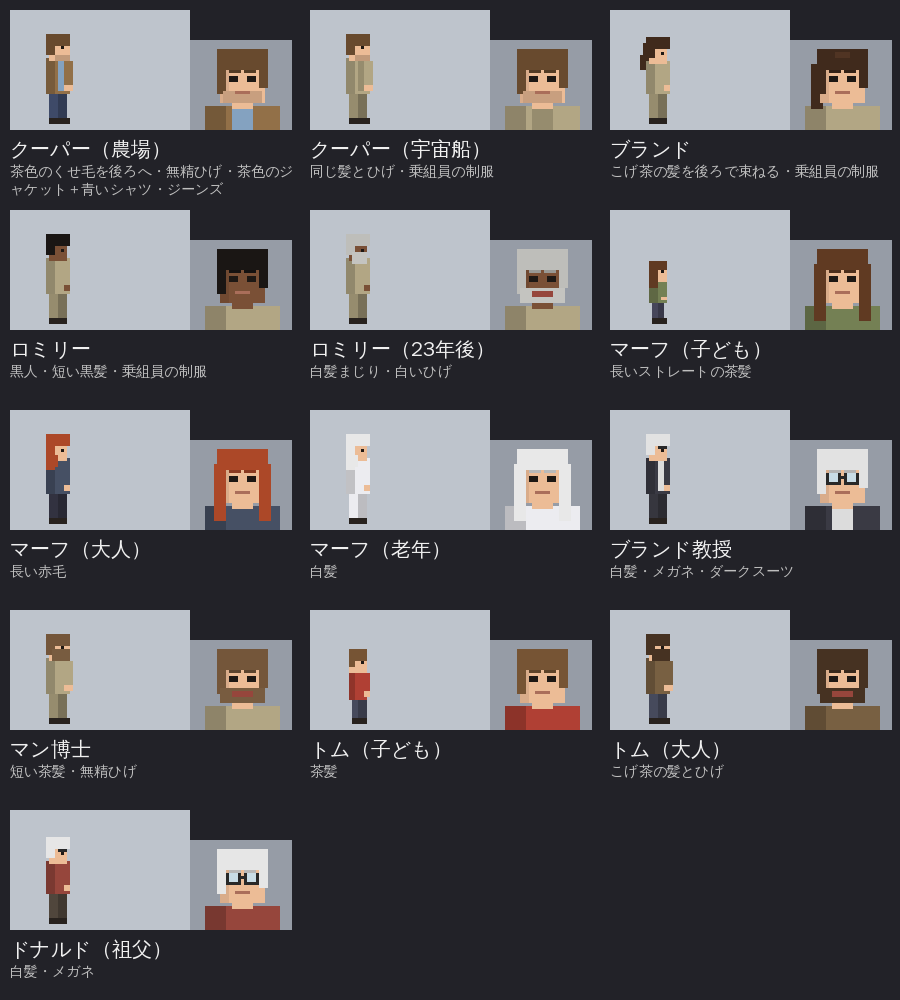
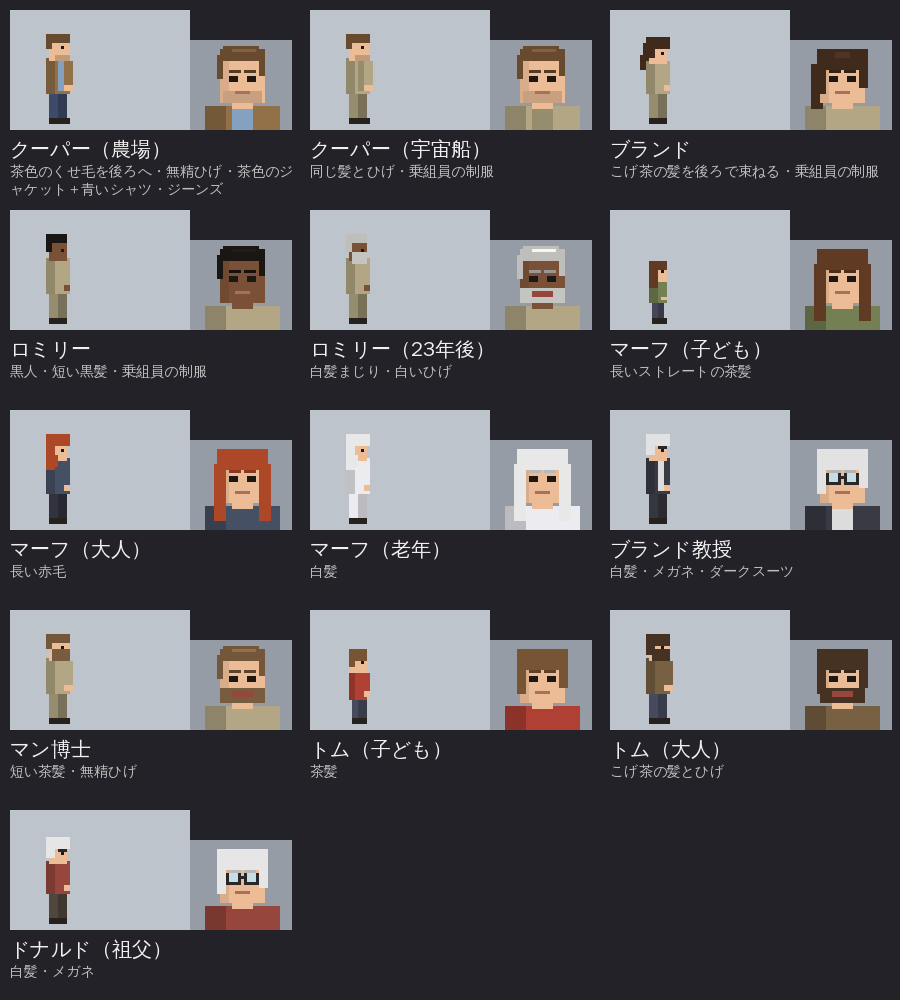
Interstellar: short swept-back haircut for Cooper (and Mann, Romilly, Doyle)
Claude-Session: https://claude.ai/code/session_0186sLp4kup135AngXnfFUNM

diff --git a/interstellar/common.py b/interstellar/common.py
@@ -31,8 +31,8 @@ def shade(c, k): return tuple(max(0, min(255, int(v * k))) for v in c)
 SKIN = (236, 188, 150)
 CAST = {
     # Cooper: wavy brown hair swept back, stubble, brown canvas jacket over a chambray shirt, jeans
-    'cooper':  dict(hair=(104, 74, 46), top=(146, 112, 72), inner=(132, 162, 192), bot=(62, 74, 104), h=30, stubble=True),
-    'cooperS': dict(hair=(104, 74, 46), top=(178, 166, 132), inner=(150, 140, 110), bot=(150, 140, 110), h=30, stubble=True),   # crew uniform
+    'cooper':  dict(hair=(104, 74, 46), top=(146, 112, 72), inner=(132, 162, 192), bot=(62, 74, 104), short=True, h=30, stubble=True),
+    'cooperS': dict(hair=(104, 74, 46), top=(178, 166, 132), inner=(150, 140, 110), bot=(150, 140, 110), short=True, h=30, stubble=True),   # crew uniform
     # young Murph: long straight brown hair
     'murph':   dict(hair=(96, 58, 34), top=(116, 128, 84), bot=(70, 70, 90), h=20, long=True),
     # adult Murph: long auburn-red hair
@@ -46,12 +46,12 @@ CAST = {
     # Amelia Brand: dark brown hair pulled back into a ponytail, crew uniform
     'brand':   dict(hair=(64, 42, 28), top=(178, 166, 132), bot=(150, 140, 110), h=28, ponytail=True),
     # Romilly: Black, short black hair, crew uniform
-    'romilly': dict(hair=(26, 22, 20), skin=(122, 80, 54), top=(178, 166, 132), bot=(150, 140, 110), h=29),
+    'romilly': dict(hair=(26, 22, 20), skin=(122, 80, 54), top=(178, 166, 132), bot=(150, 140, 110), short=True, h=29),
     # Romilly after 23 years: grey hair, full grey beard
-    'romillyO': dict(hair=(190, 190, 186), skin=(122, 80, 54), top=(178, 166, 132), bot=(150, 140, 110), h=29, beard=(196, 196, 192)),
-    'doyle':   dict(hair=(120, 90, 60), top=(178, 166, 132), bot=(150, 140, 110), h=30),
+    'romillyO': dict(hair=(190, 190, 186), skin=(122, 80, 54), top=(178, 166, 132), bot=(150, 140, 110), short=True, h=29, beard=(196, 196, 192)),
+    'doyle':   dict(hair=(120, 90, 60), top=(178, 166, 132), bot=(150, 140, 110), short=True, h=30),
     # Mann: short brown hair, scruffy beard
-    'mann':    dict(hair=(116, 86, 58), top=(178, 166, 132), bot=(150, 140, 110), h=30, beard=(120, 92, 64)),
+    'mann':    dict(hair=(116, 86, 58), top=(178, 166, 132), bot=(150, 140, 110), short=True, h=30, beard=(120, 92, 64)),
     # Donald (grandfather): white hair, glasses, plaid shirt
     'donald':  dict(hair=(230, 230, 230), top=(150, 70, 60), bot=(80, 70, 60), h=28, glasses=True),
 }
@@ -101,7 +101,8 @@ def person(d, x, y, who='cooper', face=1, pose='stand', f=0, beard=None, cry=Fal
     # head
     hy = 21
     B(-3, hy, 3, hy + 7, sk)
-    B(-3.5, hy + 5, 3.5, hy + 8, hair); B(-3.5, hy + 2, -2, hy + 7, hair)
+    if c.get('short'): B(-3.2, hy + 6, 3, hy + 8, hair); B(-3.4, hy + 3.5, -2.2, hy + 7, hair)
+    else: B(-3.5, hy + 5, 3.5, hy + 8, hair); B(-3.5, hy + 2, -2, hy + 7, hair)
     if c.get('long'): B(-3.5, hy - 3, -1.5, hy + 6, hair); B(-2, hy - 2, -1, hy + 1, hair)
     if c.get('ponytail'): B(-5, hy + 1, -3.5, hy + 6, hair); B(-5.5, hy - 2, -4.5, hy + 2, hair)
     d.point((X(1.6), Y(hy + 3.6)), fill=(30, 24, 20))
@@ -333,7 +334,12 @@ def portrait(d, cx, by, who='cooper', s=1, cry=False, beard=None, grey=False, sm
     if c.get('inner'): B(-3, 0, 3, 7, c['inner'])
     if c.get('ponytail'): B(-10, 8, -7, 22, hair)
     B(-7, 10, 7, 25, sk); B(-7, 10, -5, 25, shade(sk, .92))
-    B(-8, 21, 8, 27, hair); B(-8, 13, -6, 24, hair); B(6, 15, 8, 24, hair)
+    if c.get('short'):
+        B(-7, 23.5, 7, 27, hair); B(-6, 27, 5, 27.6, hair)
+        B(-7.6, 18, -6.6, 25, hair); B(6.6, 19, 7.6, 25, hair)
+        B(-3, 26.5, 4, 27, shade(hair, 1.3)); B(-6, 24, -3, 23.5, hair)
+    else:
+        B(-8, 21, 8, 27, hair); B(-8, 13, -6, 24, hair); B(6, 15, 8, 24, hair)
     if c.get('long'): B(-9, 4, -6, 22, hair); B(6, 4, 9, 22, hair)
     if c.get('ponytail'): B(-8, 22, 8, 27, hair); B(-2, 25, 2, 26, shade(hair, 1.25))
     B(-4, 18, -2, 17, (30, 24, 20)); B(2, 18, 4, 17, (30, 24, 20))
